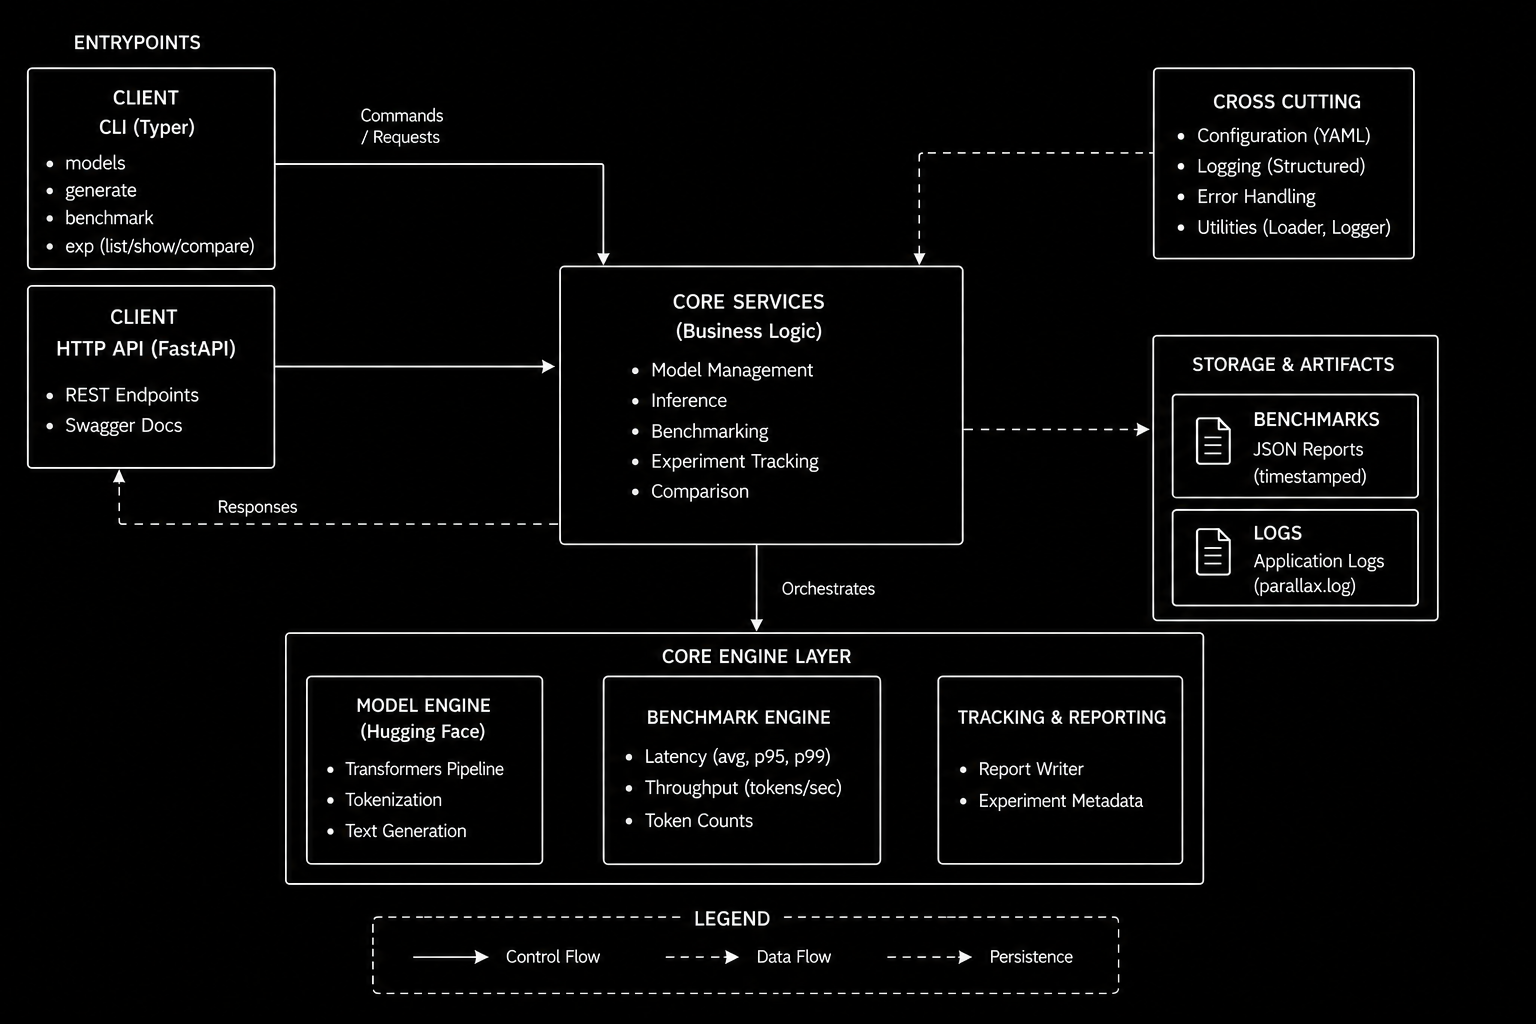
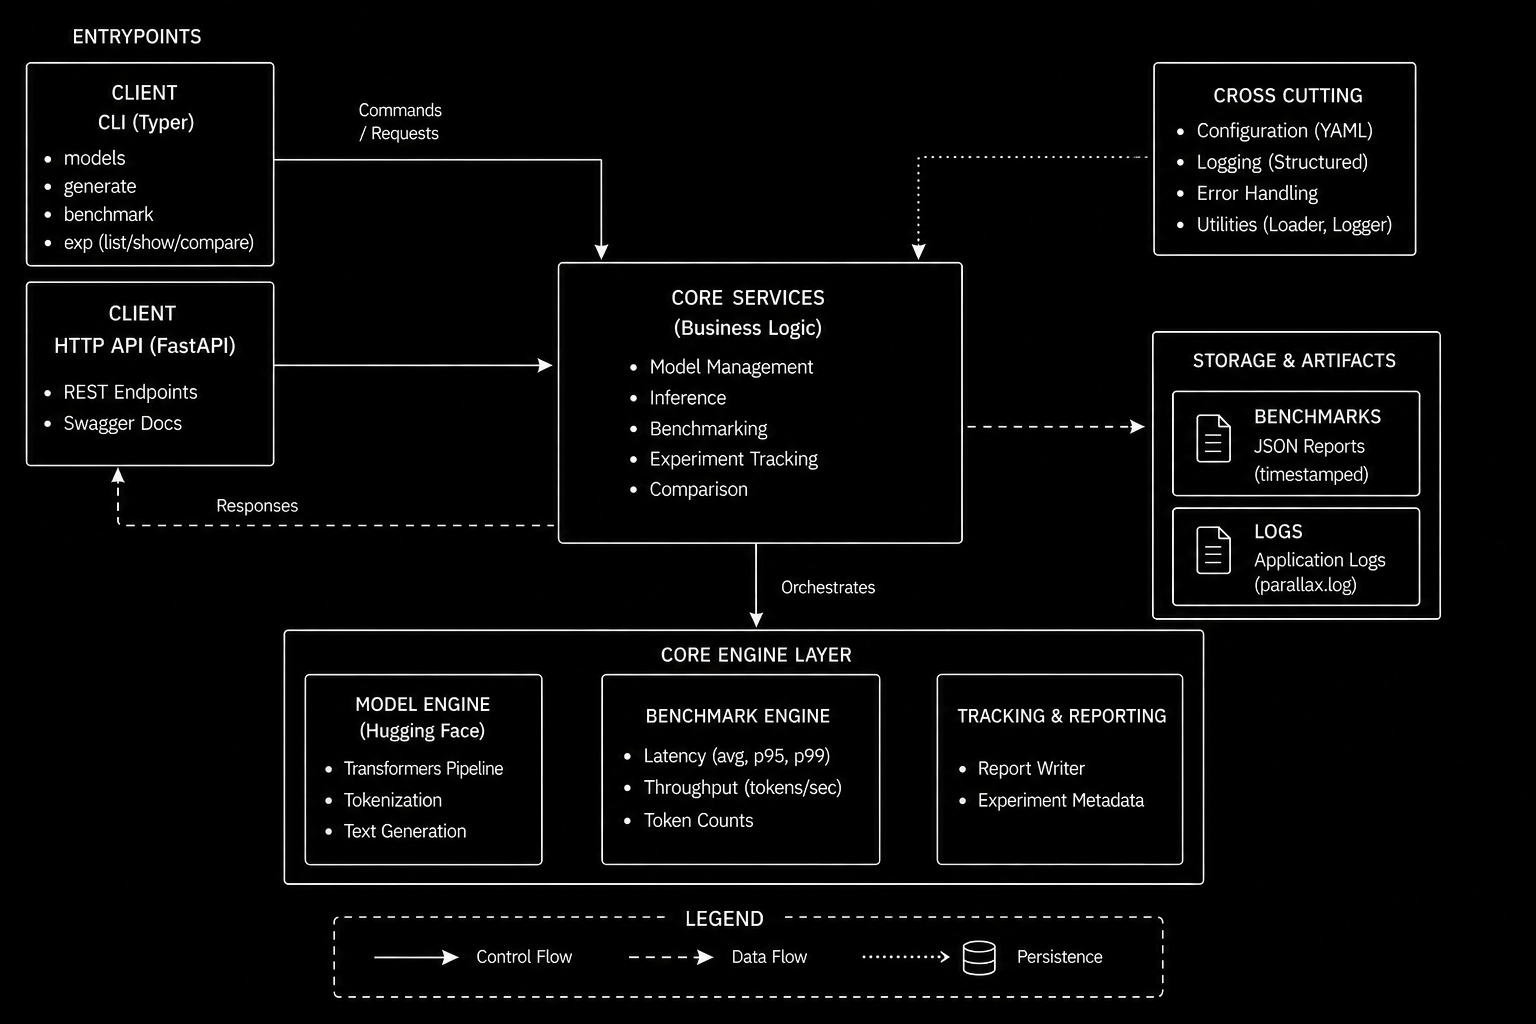
docs: refine README and project documentation

diff --git a/README.md b/README.md
@@ -28,14 +28,11 @@
 
 ## Why Parallax
 
-Most LLM projects are notebooks. A notebook runs a model, it doesn't tell you much about how a real system is structured, how services talk to each other, how dependencies flow, how you separate transport from business logic from infrastructure, or how you make results reproducible across runs.
+Most LLM projects begin and end in notebooks. While notebooks are useful for experimentation, they reveal little about how AI systems are structured beyond the model itself: how requests flow through a system, how services are organized, how experiments are tracked, and how results remain reproducible over time.
 
-Parallax was built to answer those questions concretely, by implementing them rather than reading about them. The goal was to understand how production AI systems are actually organized — what a service layer does, why CLI and HTTP endpoints shouldn't duplicate logic, how benchmarking infrastructure differs from just timing a cell, and what experiment tracking looks like when results need to be reproducible.
+Parallax was built to explore those engineering concerns in practice. Instead of focusing on model training, it focuses on the infrastructure surrounding AI systems: model serving, benchmarking, experiment tracking, configuration management, and layered system design.
 
-The result is a platform that is deliberately over-engineered for local use — not because local use requires it, but because the engineering is the point.
-
-
-### CLI
+The result is a platform that is deliberately over-engineered for local use, not because local use requires it, but because engineering is the point. The goal is to understand and implement the architectural patterns commonly found in production-oriented AI systems.
 
 ![CLI](docs/CLI.png)
 
@@ -45,7 +42,9 @@ The result is a platform that is deliberately over-engineered for local use — 
 
 Parallax is a modular local LLM platform built around a production-inspired service architecture.
 
-It exposes two interfaces over a shared service layer. The CLI provides full platform access — model management, text generation, benchmark execution, and experiment tracking. 
+It exposes two interfaces over a shared service layer.
+
+ The CLI provides full platform access: model management, text generation, benchmark execution, and experiment tracking. 
 
 The FastAPI layer exposes a focused subset: model management and inference through a typed HTTP interface with Swagger documentation.
 
@@ -82,7 +81,7 @@ Benchmarking and experiment tracking are CLI-driven workflows. Results are persi
 **Observability**
 - Structured logging to `artifacts/logs/`
 - Reproducible benchmark artifacts with full run metadata
-- Configuration-driven — all behavior controlled from a single YAML file
+- Configuration-driven; all behavior controlled from a single YAML file
 
 ---
 
@@ -92,10 +91,10 @@ Parallax follows a layered architecture that separates interfaces, business logi
 
 Key design principles:
 
-- Shared service layer across CLI and FastAPI — business logic is implemented once
-- Separated concerns — inference, benchmarking, and tracking are independent modules
-- Configuration-driven model management — models and behavior defined in `config/settings.yaml`
-- Structured logging and artifact persistence — all runs are traceable and reproducible
+- Shared service layer across CLI and FastAPI, business logic is implemented once
+- Separated concerns - inference, benchmarking, and tracking are independent modules
+- Configuration-driven model management models and behavior defined in `config/settings.yaml`
+- Structured logging and artifact persistence in all runs are traceable and reproducible
 
 ![Architecture](docs/architecture.png)
 
@@ -105,7 +104,7 @@ For a detailed breakdown of each layer and component, see [`docs/architecture.md
 
 ## Installation
 
-**Requirements:** Python 3.9+
+**Requirements:** Python 3.10+
 
 ```bash
 git clone https://github.com/Shagun812/parallax.git
@@ -181,7 +180,7 @@ logging:
 |---|---|---|
 | `project` | `artifacts_dir` | Root directory for all runtime artifacts |
 | `models` | `path` | HuggingFace model identifier |
-| `models` | `type` | Model class — currently `causal_lm` |
+| `models` | `type` | Model class - currently `causal_lm` |
 | `inference` | `default_model` | Model loaded on startup |
 | `inference` | `device` | `auto`, `cuda`, or `cpu` |
 | `inference` | `max_new_tokens` | Maximum decode tokens per request |
@@ -192,7 +191,7 @@ logging:
 | `benchmark` | `runs_per_model` | Benchmark iterations per run |
 | `benchmark` | `warmup_runs` | Warmup iterations excluded from metrics |
 | `quality` | `enabled` | Enable semantic quality scoring (v2) |
-| `logging` | `level` | Log verbosity — `INFO`, `DEBUG`, `WARNING` |
+| `logging` | `level` | Log verbosity : `INFO`, `DEBUG`, `WARNING` |
 
 ---
 
@@ -210,13 +209,13 @@ parallax models list
 parallax models current
 
 # Switch active model
-parallax models switch --model smollm2
+parallax models switch -m smollm2
 ```
 
 **Text generation**
 
 ```bash
-parallax generate --prompt "Explain attention mechanisms"
+parallax generate -p "Explain attention mechanisms"
 ```
 
 Output includes: generated text, input tokens, output tokens, generation latency (ms), tokens/sec.
@@ -233,15 +232,31 @@ Runs a structured benchmark workload against the active model using prompts from
 
 ```bash
 # List all saved benchmark reports
-parallax experiments list
+parallax exp list
 
 # Inspect a specific report
-parallax experiments show --file <filename>
+parallax exp show -f <filename>
 
 # Compare two runs side by side
-parallax experiments compare --file-a <file1> --file-b <file2>
+parallax exp compare -a <file1> -b <file2>
 ```
+### Command Aliases
 
+| Full Command | Alias  |
+|-------------|---------|
+| `benchmark` | `bench` |
+| `experiments` | `exp` |
+
+
+### Quick Flags Reference
+
+| Option | Short | Description |
+|----------|--------|-------------|
+| `--model` | `-m` | Model name to switch  |
+| `--prompt` | `-p` | Input prompt for text generation |
+| `--file` | `-f` | Benchmark report filename |
+| `--file-a` | `-a` | First benchmark report for comparison |
+| `--file-b` | `-b` | Second benchmark report for comparison |
 ---
 
 ### REST API
@@ -377,11 +392,11 @@ Benchmark runs are executed via the CLI and persisted as structured JSON artifac
 
 - Model name and configuration
 - Prompt count and runs per prompt
-- Generation latency — mean, p50, p95, p99, min, max
+- Generation latency include mean, p50, p95, p99, min and max latency
 - Mean tokens per second
 - Average input and output token counts
 
-**What is measured:** Generation latency covers the full `model.generate()` decode loop — all forward passes, KV cache operations, and sampling. A CUDA synchronization point is placed after generation and before the timer stop to ensure GPU execution is fully complete before measurement is taken.
+**What is measured:** Generation latency covers the full `model.generate()` decode loop, all forward passes, KV cache operations, and sampling. A CUDA synchronization point is placed after generation and before the timer stop to ensure GPU execution is fully complete before measurement is taken.
 
 **What is not measured:** Time to first token (TTFT), tokenization time, and end-to-end request latency are not currently captured. These are planned for v2.
 
@@ -428,7 +443,7 @@ Parallax v1 is intentionally scoped to local single-user experimentation.
 - Single active model at a time
 - No async inference or request queuing
 - No distributed or multi-GPU execution
-- No dashboard or UI — CLI and HTTP only
+- No dashboard or UI - CLI and HTTP only
 - Benchmarking and experiment tracking available via CLI only
 - Artifact storage is local filesystem only
 - Quality scoring is implemented in configuration but disabled pending v2 evaluation pipeline